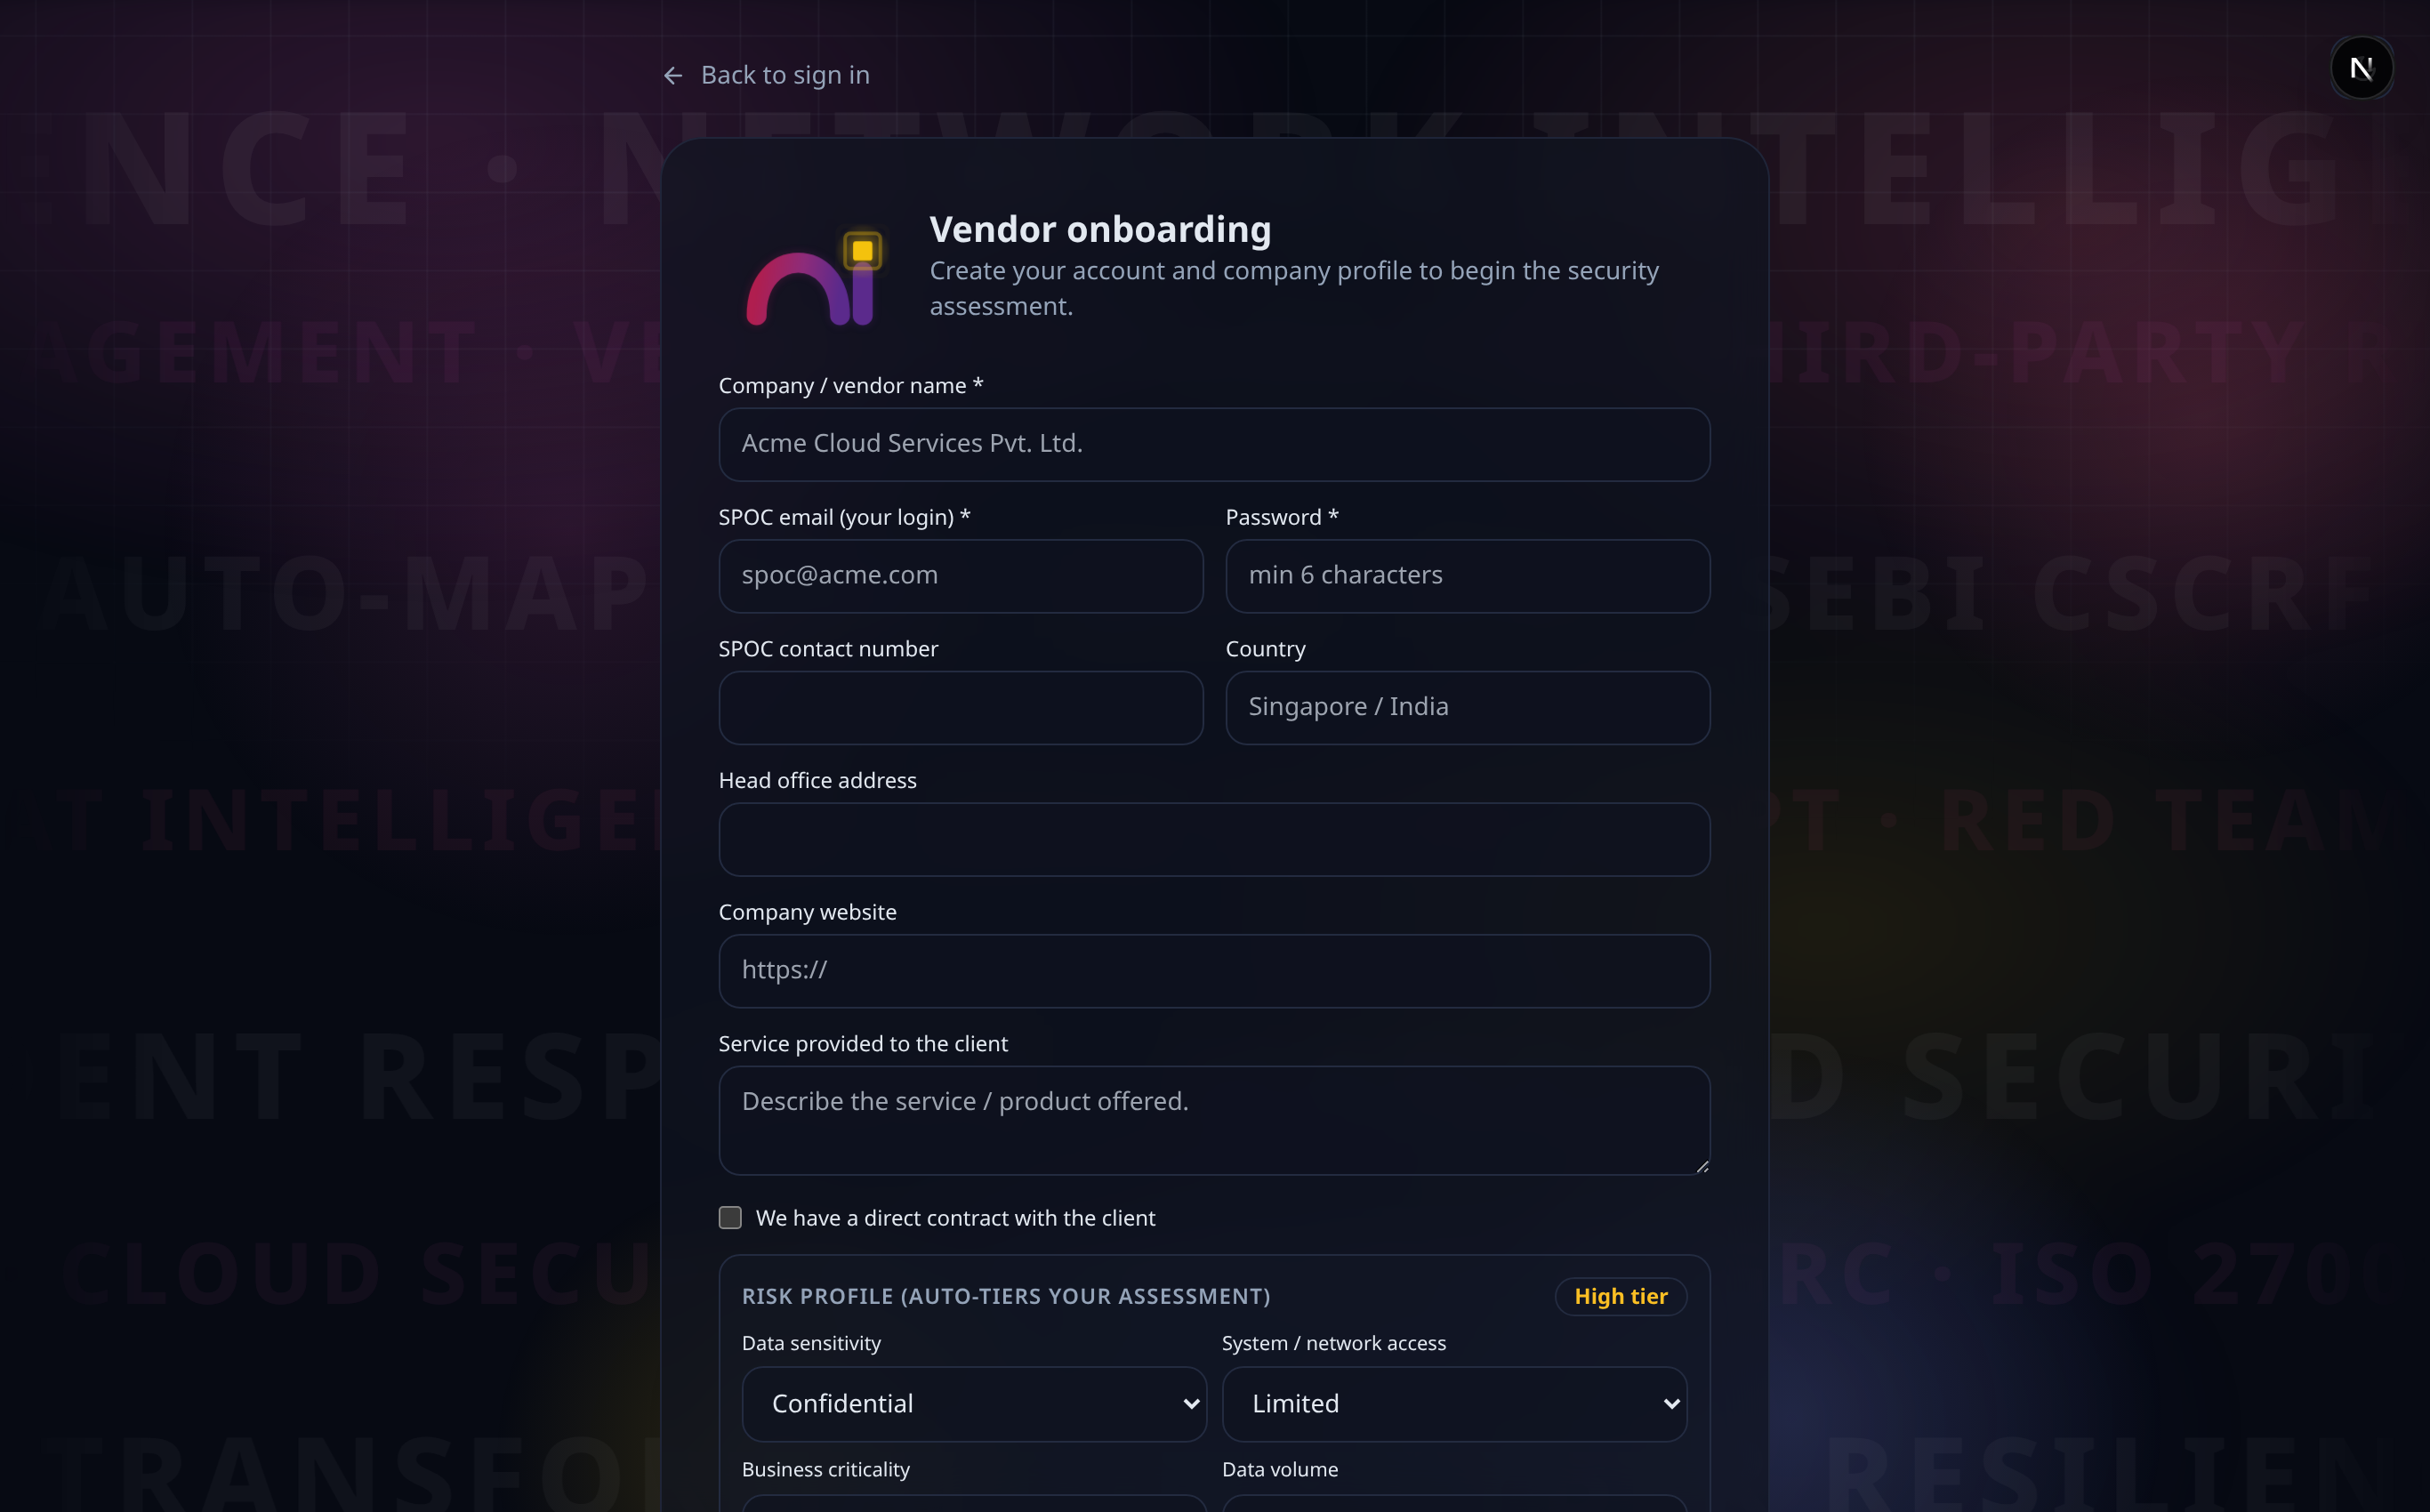
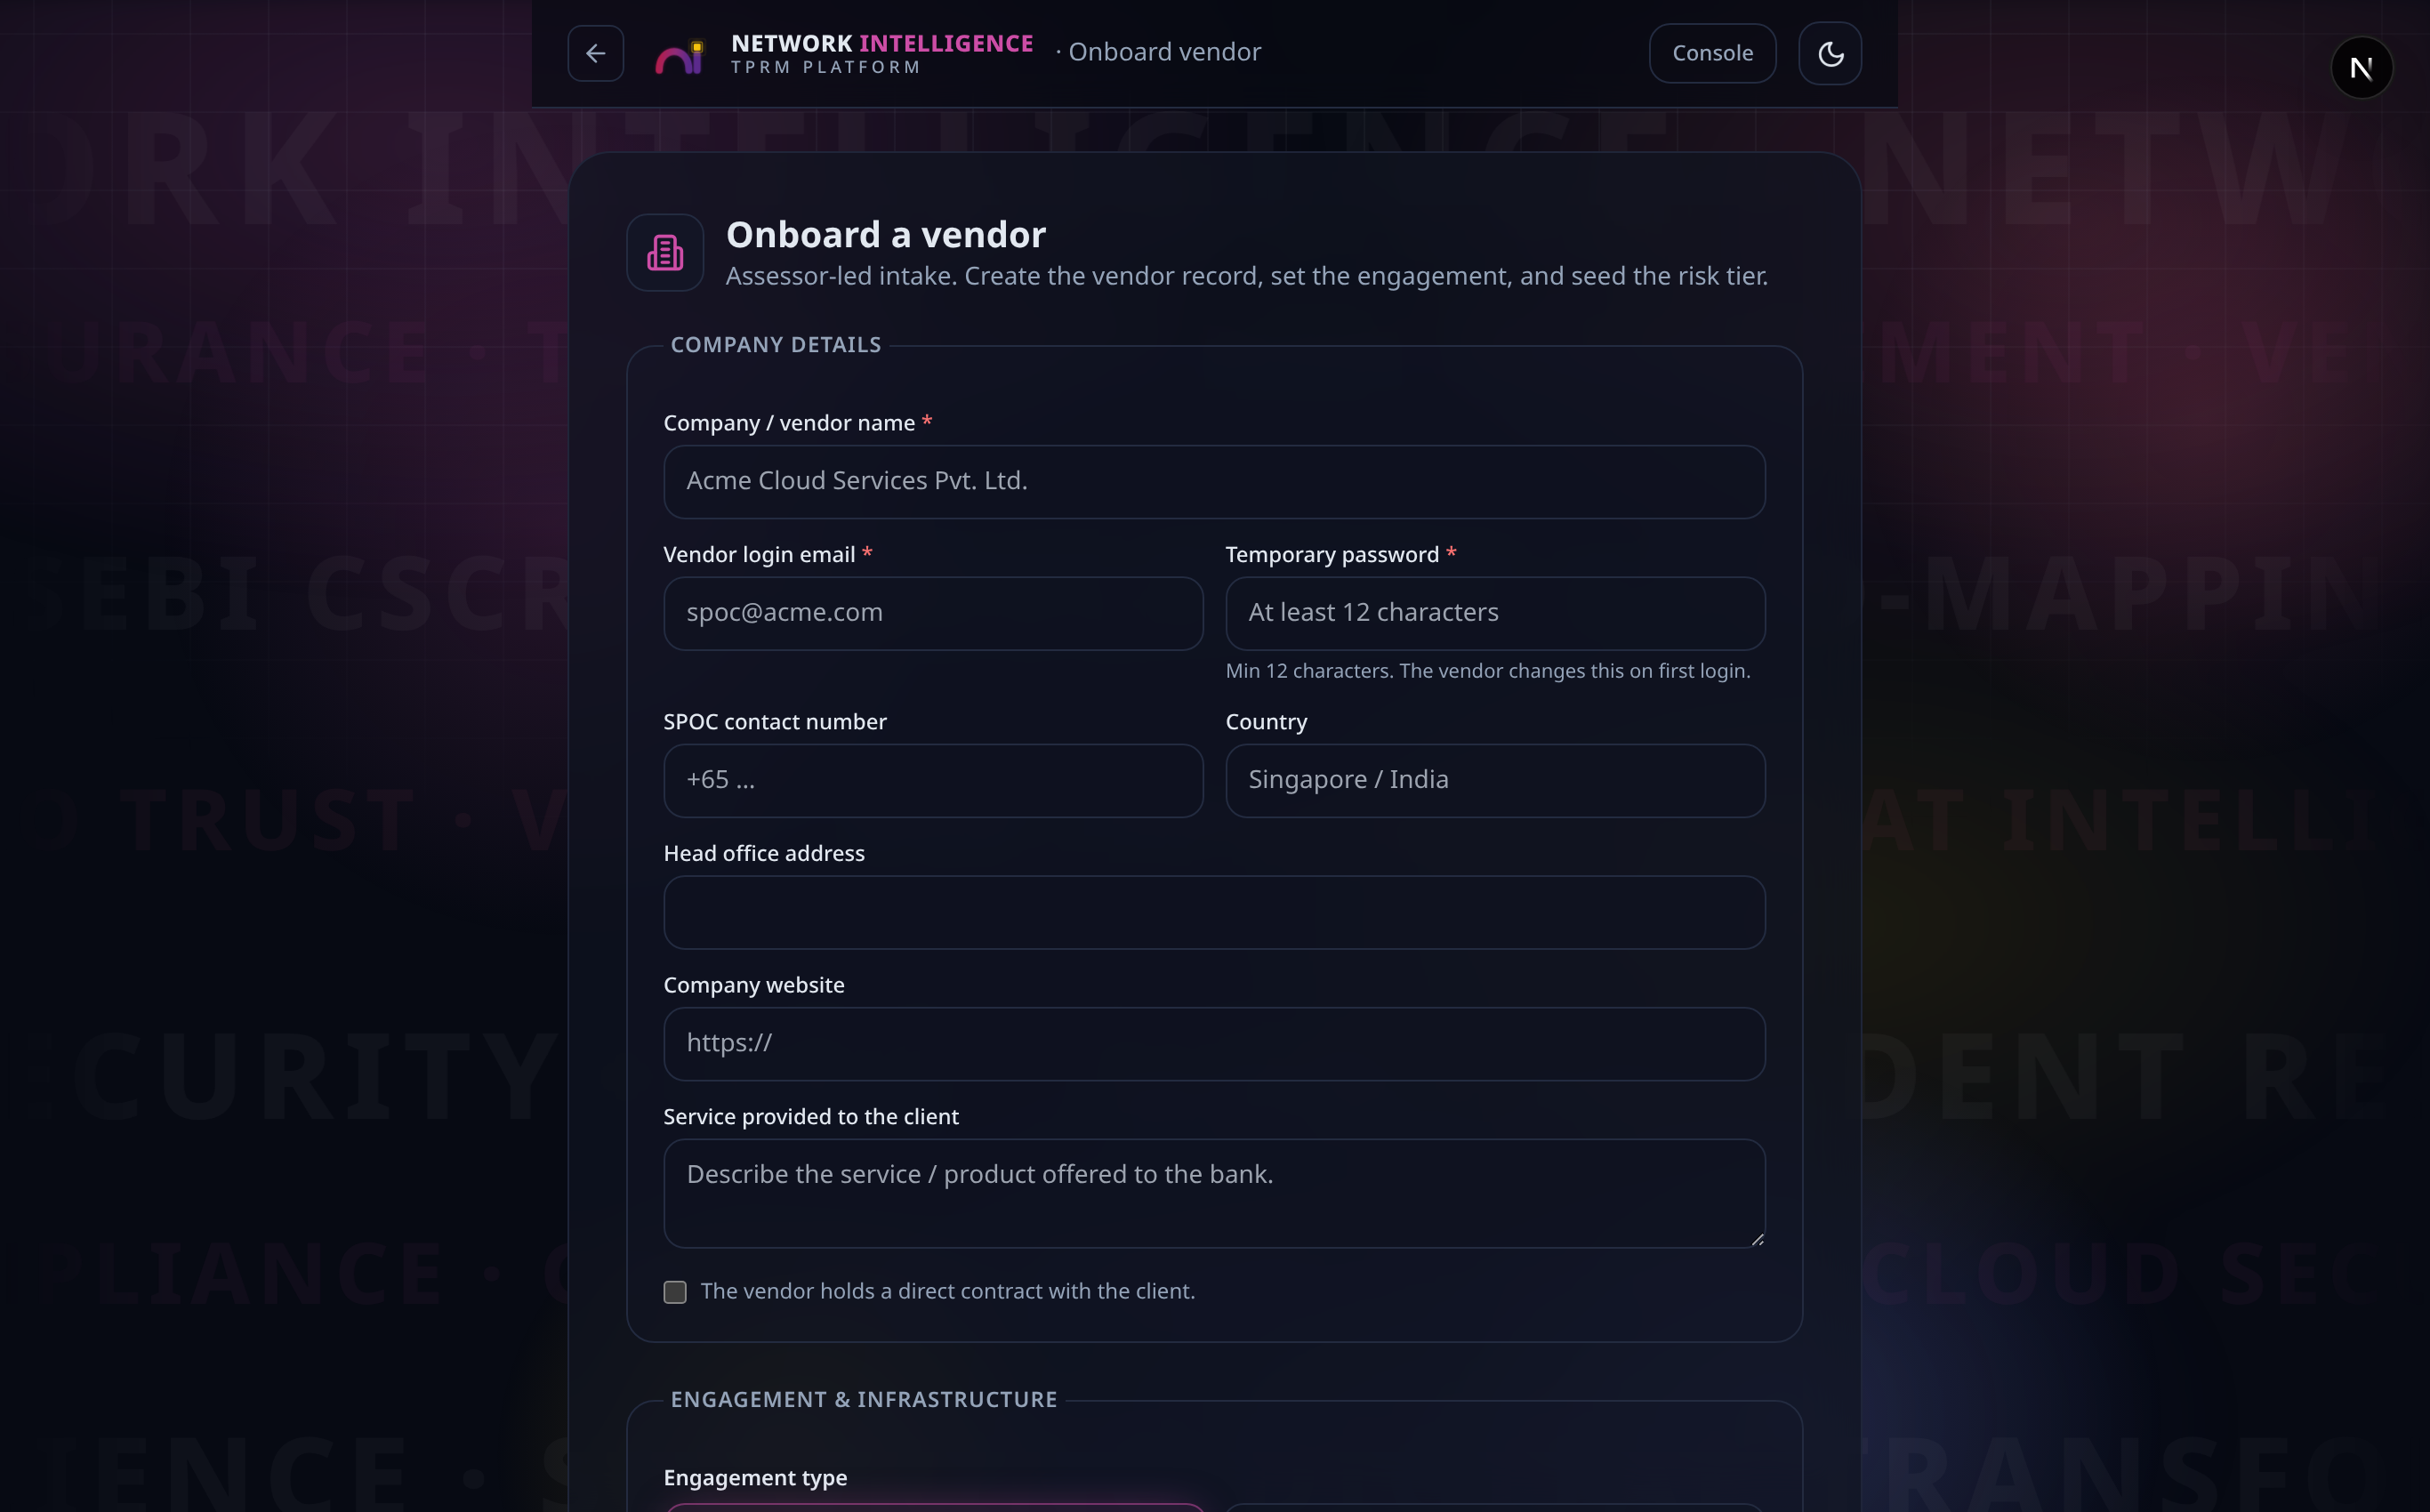
docs: refresh workflow deck for new flows + capture feature screenshots (Phase F)
- /workflow deck updated to 15 slides reflecting: 4 roles (Root/Assessor/Customer/
  Vendor), assessor-led onboarding (engagement type, infra+CSP, regulators, existing-
  vendor uploads), prior-findings focus, custom-questionnaire upload+auto-map,
  certification-as-evidence, attestation/override/act-on-behalf adjudication,
  compliance workspace, and the Customer holistic view (PDF/Excel export).
- Re-captured feature screenshots under web/public/shots (customer, onboard, customq,
  vendor cert path, console). Slide-boundary tracer + nav mechanics preserved.
tsc clean; build green (42 routes).

diff --git a/web/src/app/workflow/page.tsx b/web/src/app/workflow/page.tsx
@@ -9,15 +9,16 @@ import {
   ArrowRight,
   Building2,
   ClipboardCheck,
-  Gauge,
+  History,
   Layers,
-  FileSignature,
-  ListChecks,
+  FileSpreadsheet,
+  BadgeCheck,
   ScanSearch,
-  ShieldAlert,
   MessageSquareWarning,
   Award,
   BellRing,
+  Eye,
+  Settings2,
   CheckCircle2,
   Sparkles,
   ShieldCheck,
@@ -32,7 +33,7 @@ import { cn } from "@/lib/utils";
 /* Content model                                                       */
 /* ------------------------------------------------------------------ */
 
-type Actor = "Vendor" | "Assessor·DBS" | "Root" | "System" | "Root/Approver" | "Assessor ↔ Vendor";
+type Actor = "Vendor" | "Assessor" | "Root" | "System" | "Customer" | "Assessor ↔ Vendor";
 type Reg = "MAS" | "RBI" | "SEBI";
 
 interface Shot {
@@ -59,10 +60,10 @@ interface Stage {
 
 const ACTOR_STYLE: Record<Actor, string> = {
   Vendor: "text-mas border-mas/40 bg-mas/10",
-  "Assessor·DBS": "text-brand border-brand/40 bg-brand/10",
+  Assessor: "text-brand border-brand/40 bg-brand/10",
   Root: "text-sebi border-sebi/40 bg-sebi/10",
   System: "text-ok border-ok/40 bg-ok/10",
-  "Root/Approver": "text-sebi border-sebi/40 bg-sebi/10",
+  Customer: "text-rbi border-rbi/40 bg-rbi/10",
   "Assessor ↔ Vendor": "text-warn border-warn/40 bg-warn/10",
 };
 
@@ -72,56 +73,56 @@ const STAGES: Stage[] = [
   {
     n: 1,
     icon: Building2,
-    name: "Customer (FI) onboarding",
-    purpose: "A financial institution joins the platform as an isolated tenant.",
+    name: "Customer (FI) onboarding & roles",
+    purpose: "A financial institution joins as an isolated tenant with four roles.",
     intro:
       "Before a single vendor is touched, the bank itself is stood up as a tenant. Root configures the institution, its people and its rulebook so everything downstream inherits the right context.",
     points: [
       "Root provisions a new FI tenant with isolated, region-pinned data residency.",
-      "Assessor (DBS) accounts are created and scoped strictly to that tenant.",
-      "Branding, regulatory frameworks (MAS / RBI / SEBI) and approval authorities are wired in up front.",
+      "Four roles are wired in: Root (platform owner), Assessor (runs assessments), Customer (read-only bank stakeholder with a holistic portfolio view) and Vendor (submits its own evidence).",
+      "Branding, regulatory frameworks (MAS / RBI / SEBI) and approval authorities are configured up front.",
       "Per-tenant separation means one bank can never see another bank's vendors or evidence.",
     ],
-    why: "Tenant isolation and residency controls satisfy MAS / RBI / SEBI expectations on data localisation and segregation for outsourcing platforms.",
+    why: "Tenant isolation, scoped roles and residency controls satisfy MAS / RBI / SEBI expectations on data localisation and segregation for outsourcing platforms.",
     actor: "Root",
     regs: ["MAS", "RBI", "SEBI"],
-    shot: { src: "/shots/admin.png", alt: "Root admin console provisioning a financial-institution tenant" },
+    shot: { src: "/shots/admin.png", alt: "Root admin console provisioning a financial-institution tenant and roles" },
   },
   {
     n: 2,
     icon: ClipboardCheck,
-    name: "Vendor intake & Due Diligence",
-    purpose: "Bring a vendor in — first-time onboarding or a periodic refresh.",
+    name: "Assessor-led vendor onboarding",
+    purpose: "The assessor — not the vendor — brings a vendor in and frames the engagement.",
     intro:
-      "A vendor enters the lifecycle either for the first time or as a scheduled re-assessment. The platform routes each path to the right depth of due diligence and hands the vendor the keys to its own record.",
+      "The assessor owns intake. Before any questionnaire, they capture what kind of engagement this is, where the vendor runs, who regulates it, and how risky it is.",
     points: [
-      "First-time vendor → full due diligence; existing vendor → periodic re-DD on a tier-driven cadence.",
-      "A per-vendor login is issued so the vendor owns and submits its own record.",
-      "Core profile, ownership, sub-processors and prior assessments are captured at intake.",
-      "The vendor's self-declared posture is recorded but treated as advisory, never authoritative.",
+      "Engagement type is set: Due Diligence (a brand-new vendor) vs Existing Vendor (a periodic refresh).",
+      "Infrastructure is captured: On-Prem, Cloud (and which CSP), or Hybrid (with CSP) — driving cloud-specific controls.",
+      "Applicable regulators are multi-selected: RBI / MAS / SEBI / None — scoping the framework mappings.",
+      "The assessor sets the risk profile / tier; for an Existing Vendor they also upload the Agreement/Contract and the last TPRM audit report.",
     ],
-    why: "MAS expects material outsourcing arrangements to be re-assessed at least every 24 months; the intake path enforces that periodic-review obligation.",
-    actor: "Assessor·DBS",
-    regs: ["MAS"],
-    shot: { src: "/shots/onboard.png", alt: "Vendor intake and due-diligence onboarding screen" },
+    why: "MAS expects material outsourcing arrangements to be re-assessed at least every 24 months, and the assessor-set tier keeps the inherent-risk rating bank-owned and defensible.",
+    actor: "Assessor",
+    regs: ["MAS", "RBI", "SEBI"],
+    shot: { src: "/shots/onboard.png", alt: "Assessor-led vendor onboarding: engagement type, infrastructure, regulators and tier" },
   },
   {
     n: 3,
-    icon: Gauge,
-    name: "Risk Profiling",
-    purpose: "Assessor/DBS-led inherent-risk scoring sets the vendor's tier.",
+    icon: History,
+    name: "Prior-findings focus",
+    purpose: "For existing vendors, last cycle's gaps lead this cycle.",
     intro:
-      "The bank — not the vendor — scores the inherent risk of the relationship. That score becomes the tier that drives how hard every later stage works.",
+      "When an Existing Vendor's last TPRM audit report is uploaded, the platform parses it and re-checks everything — but puts last time's failures front and centre.",
     points: [
-      "Scored on data sensitivity, system access, business criticality, residency, 4th-party exposure and volume.",
-      "Output is a single tier: Critical / High / Medium / Low.",
-      "Vendor self-declaration is advisory only — the bank's assessor-set score is authoritative.",
-      "The tier is the pivot for scoping, cadence and the approval authority required later.",
+      "The uploaded last audit report is parsed into a structured prior-findings list.",
+      "The new assessment re-checks every requirement, not just the old gaps — nothing is assumed fixed.",
+      "Requirements that were Non-Compliant last time are spotlighted with focus badges.",
+      "Assessor and vendor prioritise the spotlighted items so known weaknesses close first.",
     ],
-    why: "Risk-tiering of third parties is a shared expectation across MAS, RBI and SEBI; proportionate oversight starts from a defensible inherent-risk rating.",
-    actor: "Assessor·DBS",
-    regs: ["MAS", "RBI", "SEBI"],
-    shot: { src: "/shots/console.png", alt: "Assessor console showing inherent-risk tiering" },
+    why: "Targeted re-assessment of previously identified gaps evidences the ongoing, risk-led oversight MAS / RBI / SEBI expect across the life of an arrangement.",
+    actor: "Assessor",
+    regs: ["MAS"],
+    shot: { src: "/shots/console.png", alt: "Console spotlighting requirements that were non-compliant in the prior audit" },
   },
   {
     n: 4,
@@ -142,75 +143,60 @@ const STAGES: Stage[] = [
   },
   {
     n: 5,
-    icon: FileSignature,
-    name: "Contract / MSA",
-    purpose: "Verify the contract carries the clauses regulators require.",
+    icon: FileSpreadsheet,
+    name: "Custom questionnaire",
+    purpose: "Bring your own questionnaire — auto-mapped to controls.",
     intro:
-      "The master services agreement is checked against a mandatory-clause checklist. Anything the regulators require to be contractual must be present and is converted into trackable obligations.",
+      "An assessor can upload their own questionnaire instead of relying only on built-in templates. The platform makes it assessable by mapping it onto the control library.",
     points: [
-      "Upload the MSA; run it against a mandatory-clause checklist.",
-      "Audit rights, breach notification, data residency, exit/termination and sub-contracting clauses are each mapped to MAS / RBI / SEBI.",
-      "Missing or weak clauses surface as gaps before the relationship proceeds.",
-      "Captured commitments build an obligation register that continuous monitoring later tracks.",
+      "The assessor uploads their own questionnaire as Excel or CSV.",
+      "The platform auto-maps each question to existing controls, inheriting their MAS / RBI / SEBI mappings.",
+      "Questions with no match become assessable custom controls.",
+      "Mappings take effect only after the assessor reviews and confirms them.",
     ],
-    why: "MAS, RBI and SEBI all mandate specific outsourcing clauses (audit access, breach notice, exit, sub-contracting); the checklist proves they exist in the signed contract.",
-    actor: "Assessor·DBS",
+    why: "Custom questions still inherit regulatory mappings, so a bespoke questionnaire keeps the MAS / RBI / SEBI coverage examiners expect — nothing falls outside the framework.",
+    actor: "Assessor",
     regs: ["MAS", "RBI", "SEBI"],
-    shot: { src: "/shots/compliance.png", alt: "Contract clause checklist mapped to MAS, RBI and SEBI" },
+    shot: { src: "/shots/customq.png", alt: "Uploading a custom questionnaire that is auto-mapped to controls" },
   },
   {
     n: 6,
-    icon: ListChecks,
-    name: "Questionnaire & Evidence",
-    purpose: "The vendor answers controls and attaches the proof.",
+    icon: BadgeCheck,
+    name: "Vendor response — certification-as-evidence",
+    purpose: "Per requirement, the vendor proves the control — including via certifications.",
     intro:
-      "This is where claims meet proof. The vendor works through a categorized, collapsible questionnaire and attaches evidence per control — and an assessor can step in to do it with them.",
+      "This is where claims meet proof. Working through a categorized, collapsible questionnaire, the vendor answers each requirement in one of three ways.",
     points: [
-      "Categorized, collapsible control families; the vendor attaches evidence per item.",
-      'Any "Not Applicable" answer requires a written N/A reasoning statement — no silent skips.',
-      "Assessors can act ON BEHALF of the vendor (onsite or remote) and upload responses for them.",
-      "Every entry is attributed — the record always shows who entered it and how.",
+      "(a) An existing certification covers it: pick ISO 27001 / PCI DSS AOC / SOC 2 Type 2, explain how it's covered, and upload the certificate.",
+      "(b) Provide direct evidence plus an explanatory comment.",
+      "(c) Mark Not Applicable — with a mandatory written reason; no silent skips.",
+      "The questionnaire is categorized and collapsible so large control sets stay navigable.",
     ],
-    why: "Evidence-backed answers with mandatory N/A justification create the auditable trail MAS / RBI / SEBI examiners expect for outsourcing assurance.",
+    why: "Evidence- and certification-backed answers with mandatory N/A justification create the auditable trail MAS / RBI / SEBI examiners expect for outsourcing assurance.",
     actor: "Vendor",
-    shot: { src: "/shots/vendor.png", alt: "Categorized collapsible questionnaire with evidence upload" },
+    regs: ["MAS", "RBI", "SEBI"],
+    shot: { src: "/shots/vendor.png", alt: "Vendor answering a requirement via certification, evidence or Not Applicable" },
   },
   {
     n: 7,
     icon: ScanSearch,
-    name: "Adjudication",
-    purpose: "The engine judges what's claimed against what's proven.",
+    name: "Adjudication & assessor authority",
+    purpose: "The engine judges what's claimed against what's proven; the assessor decides.",
     intro:
-      "An adjudication engine reads each answer alongside its evidence and forms a verdict. The finding lives in the gap between what the vendor said and what the evidence actually shows.",
+      "An adjudication engine reads each answer alongside its evidence and forms a verdict — but the human assessor holds final authority over every control.",
     points: [
-      "Reads the attached evidence and weighs the claim against the proof for each control.",
-      "Static-rule engine corroborates answers against evidence for transparent, repeatable accuracy.",
-      "Runs as Static / Cloud-AI / Hybrid depending on the tenant's configuration.",
-      "Produces a per-control verdict with the reasoning attached, not just a pass/fail flag.",
+      "The engine weighs the claim against the proof and returns a per-control verdict with reasoning, not just pass/fail.",
+      'A verified certification yields a verdict sourced as "attestation" — but a cert only counts for its eligible domain, and over-claims are flagged.',
+      "The assessor can override any verdict, with a mandatory written rationale that is audit-logged.",
+      "The assessor can also act on behalf of the vendor (onsite or remote) — every entry stays attributed.",
     ],
-    why: "Independent, corroborated adjudication of vendor claims supports the substantive (not box-ticking) assurance MAS / RBI / SEBI expect.",
-    actor: "System",
-    shot: { src: "/shots/console.png", alt: "Adjudication engine weighing claim against evidence" },
+    why: "Independent adjudication plus a human-accountable final decision aligns with MAS / RBI / SEBI expectations that the bank — not a tool — owns its outsourcing risk judgments.",
+    actor: "Assessor",
+    regs: ["MAS", "RBI", "SEBI"],
+    shot: { src: "/shots/console.png", alt: "Adjudication console showing verdicts, attestation source and assessor override" },
   },
   {
     n: 8,
-    icon: ShieldAlert,
-    name: "Assessor override",
-    purpose: "The human assessor is the final authority.",
-    intro:
-      "The engine advises; the human decides. Any machine verdict can be overruled by an assessor — but never silently. Every override carries a reason and an audit trail.",
-    points: [
-      "An assessor can override any engine verdict on any control.",
-      "Override requires a mandatory written rationale before it can be saved.",
-      "The human decision becomes authoritative and supersedes the engine result.",
-      "Both the original verdict and the override are fully audit-logged with attribution.",
-    ],
-    why: "Keeping a human accountable for the final risk decision aligns with MAS / RBI / SEBI expectations that the bank — not a tool — owns its outsourcing risk judgments.",
-    actor: "Assessor·DBS",
-    shot: { src: "/shots/console.png", alt: "Assessor overriding an engine verdict with mandatory rationale" },
-  },
-  {
-    n: 9,
     icon: MessageSquareWarning,
     name: "Findings, remediation & feedback",
     purpose: "Findings go back to the vendor and the loop closes.",
@@ -227,7 +213,7 @@ const STAGES: Stage[] = [
     shot: { src: "/shots/console.png", alt: "Findings and remediation thread between assessor and vendor" },
   },
   {
-    n: 10,
+    n: 9,
     icon: Award,
     name: "Consolidated rating & approval",
     purpose: "A single rating routes the vendor to the right approver.",
@@ -240,27 +226,63 @@ const STAGES: Stage[] = [
       "The approval — and who gave it — is recorded against the vendor's record.",
     ],
     why: "Tiered, authority-mapped approval ensures material-outsourcing decisions reach the right level of accountability, as MAS / RBI / SEBI expect.",
-    actor: "Root/Approver",
+    actor: "Root",
     regs: ["MAS"],
     shot: { src: "/shots/portfolio.png", alt: "Consolidated portfolio rating and approval view" },
   },
   {
-    n: 11,
+    n: 10,
     icon: BellRing,
-    name: "Continuous monitoring & auto-reminders",
-    purpose: "Renewals, obligations and deadlines chase themselves.",
+    name: "Compliance workspace",
+    purpose: "Contracts, obligations, certs and custom compliances tracked in one place.",
     intro:
-      "Approval isn't the finish line. The platform keeps watching — contract renewals, the obligation register, certificate expiry and reassessment cadence all generate reminders without anyone having to remember.",
+      "A dedicated workspace turns the signed contract and ongoing commitments into living, tracked items — and chases them automatically so oversight never lapses.",
     points: [
-      "Tracks contract renewals and the obligation register captured from the MSA.",
-      "Compliances and certificate expiry are tracked, including a custom compliance list per vendor.",
-      "Auto-reminders fire for contract renewals, obligations and cert/compliance expiry.",
-      "Evidence currency ≤ 12 months and reassessment cadence is set by the vendor's tier.",
+      "Contracts are checked against a mandatory-clause checklist (audit rights, breach notice, residency, exit, sub-contracting) mapped to MAS / RBI / SEBI.",
+      "Captured commitments build an obligations register that is tracked for the life of the relationship.",
+      "Certification expiry is tracked, alongside a per-vendor custom compliance list.",
+      "Auto-reminders fire for renewals, obligations and cert/compliance expiry — nothing relies on memory.",
     ],
-    why: "Continuous, automated monitoring of obligations and expiries delivers the ongoing — not point-in-time — oversight MAS / RBI / SEBI require throughout the relationship.",
-    actor: "System",
+    why: "Mandatory contract clauses plus continuous, automated monitoring of obligations and expiries deliver the ongoing — not point-in-time — oversight MAS / RBI / SEBI require.",
+    actor: "Assessor",
     regs: ["MAS", "RBI", "SEBI"],
-    shot: { src: "/shots/compliance.png", alt: "Continuous monitoring with auto-reminders for renewals and cert expiry" },
+    shot: { src: "/shots/compliance.png", alt: "Compliance workspace: clause checklist, obligations register and expiry reminders" },
+  },
+  {
+    n: 11,
+    icon: Eye,
+    name: "Customer holistic view",
+    purpose: "A read-only, portfolio-wide window for bank stakeholders.",
+    intro:
+      "The Customer role gets a holistic, read-only view over the whole vendor portfolio — no editing, just oversight and reporting.",
+    points: [
+      "A portfolio list shows each vendor with criticality, TPRM compliance status, when assessment was initiated and the next-due date.",
+      "Next-due is flagged as overdue or due-soon so attention goes where it's needed.",
+      "The list is sortable, with requirement-wise drill-down into any vendor.",
+      "The whole view exports to PDF and Excel for board and regulator reporting.",
+    ],
+    why: "Portfolio-wide, exportable oversight gives senior stakeholders the holistic view MAS / RBI / SEBI expect for governance, board reporting and supervisory requests.",
+    actor: "Customer",
+    regs: ["MAS", "RBI", "SEBI"],
+    shot: { src: "/shots/customer.png", alt: "Customer read-only portfolio view with status, due dates and export" },
+  },
+  {
+    n: 12,
+    icon: Settings2,
+    name: "Root administration",
+    purpose: "Platform governance: engine, users and audit.",
+    intro:
+      "Root keeps the platform itself in order — adjudication engine configuration, user and role management, and the immutable audit trail behind every action.",
+    points: [
+      "Configure the adjudication engine mode (Static / Cloud-AI / Hybrid) per tenant.",
+      "Manage users across the four roles (Root, Assessor, Customer, Vendor) and their scoping.",
+      "Every action across the platform is captured in an immutable, attributed audit log.",
+      "Tenant-wide settings, frameworks and data residency remain under Root control.",
+    ],
+    why: "Centralised governance with a complete, attributed audit trail underpins the accountability and examinability MAS / RBI / SEBI require of an outsourcing platform.",
+    actor: "Root",
+    regs: ["MAS", "RBI", "SEBI"],
+    shot: { src: "/shots/admin.png", alt: "Root administration: engine configuration, user management and audit log" },
   },
 ];
 
@@ -388,7 +410,7 @@ function CoverSlide() {
           {(["MAS", "RBI", "SEBI"] as Reg[]).map((r) => (
             <RegChip key={r} reg={r} />
           ))}
-          <span className="text-xs text-muted">· 11 lifecycle stages</span>
+          <span className="text-xs text-muted">· 12 lifecycle stages</span>
         </motion.div>
       </div>
     </div>